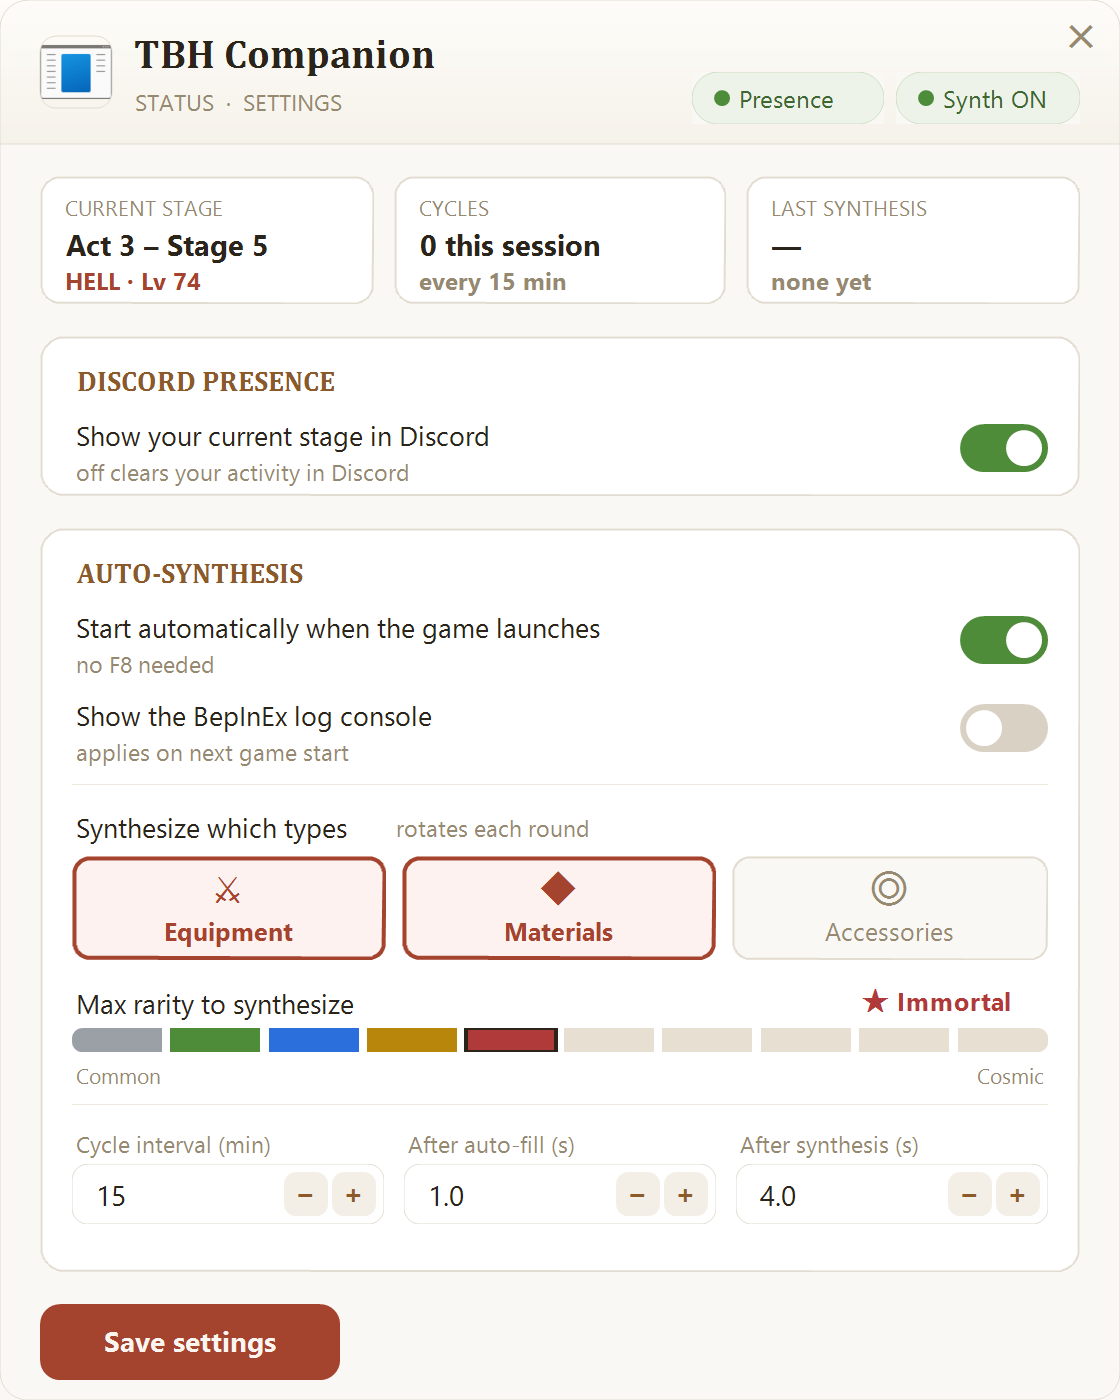
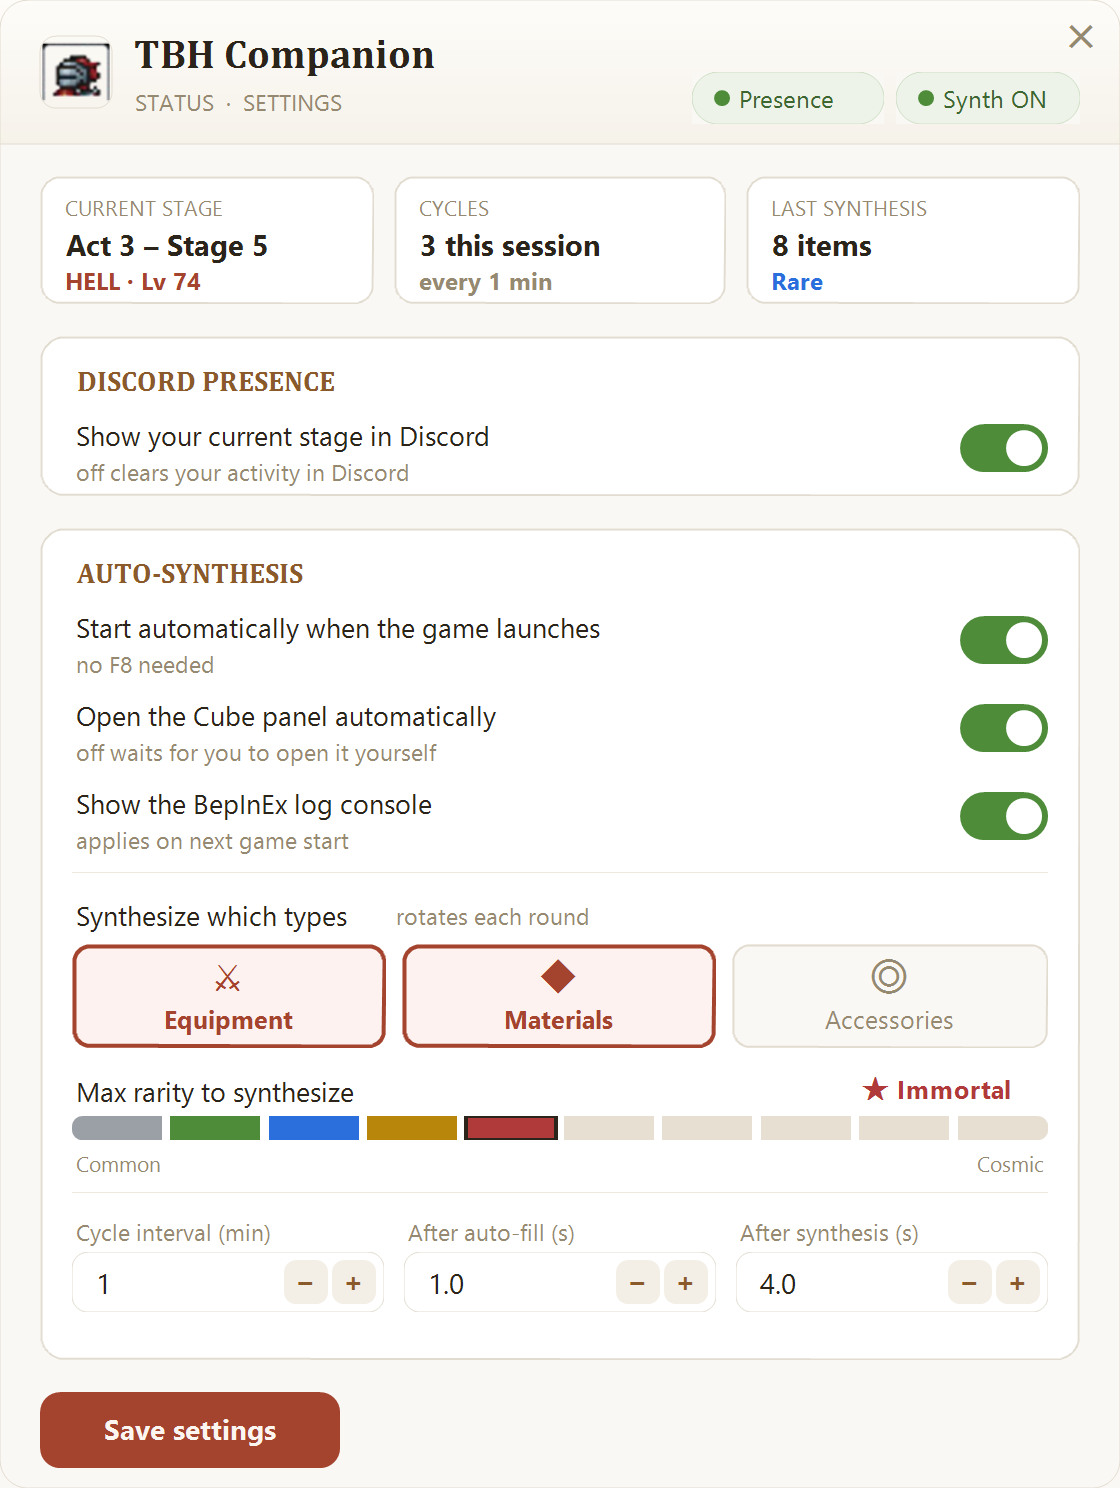
Open the Cube panel automatically when a synthesis cycle is due (#4)
The auto loop could only act while the Cube panel was open, so it sat idle
until the player opened it by hand. When a cycle is due and the panel is
closed, the plugin now clicks the Cube menu button in the main window's
content row (UI_Main.button_Cube.toggleButton) and continues on the next
tick.

The open attempt is gated by the same tick as the rest of the loop, so it
only fires when there is work to do: between cycles the loop sleeps and the
menu is left alone. Retries are throttled to once every 10s so a player
using another panel does not have the tab taken back every tick, and the
"button not available" warning waits for three consecutive misses - the main
window takes a few seconds to build after launch, and the first attempts
legitimately miss.

New AutoOpenCube config key (default true) with a toggle in the settings
window; off keeps the old behaviour of waiting for the player to open the
panel.

Claude-Session: https://claude.ai/code/session_018ARGGB4G6xciLzXs7UTuCK

diff --git a/autosynth/Plugin.cs b/autosynth/Plugin.cs
@@ -17,19 +17,20 @@ namespace TbhAutoSynth;
 [BepInPlugin("com.pres.tbh.autosynth", "TBH Auto Synthesis", AutoSynthPlugin.Version)]
 public class AutoSynthPlugin : BasePlugin
 {
-    internal const string Version = "0.22.0";
+    internal const string Version = "0.23.0";
 
     internal static ManualLogSource Logger;
     private static ConfigFile _conf;
     private static ConfigEntry<float> _afterFillE, _afterSynthE, _cycleE;
     private static ConfigEntry<int> _maxGradeE;
-    private static ConfigEntry<bool> _autoStartE;
+    private static ConfigEntry<bool> _autoStartE, _autoOpenE;
 
     internal static float AfterFillDelay => _afterFillE != null ? _afterFillE.Value : 1.0f;
     internal static float AfterSynthDelay => _afterSynthE != null ? _afterSynthE.Value : 4.0f;
     internal static float AfterClearDelay => _cycleE != null ? _cycleE.Value : 300.0f;
     internal static int MaxGrade => _maxGradeE != null ? _maxGradeE.Value : 2;
     internal static bool AutoStart => _autoStartE == null || _autoStartE.Value;
+    internal static bool AutoOpenCube => _autoOpenE == null || _autoOpenE.Value;
 
     private static ConfigEntry<string> _typesE;
 
@@ -62,10 +63,11 @@ public class AutoSynthPlugin : BasePlugin
         if (_conf == null) return;
         try
         {
-            int mg = MaxGrade; float ci = AfterClearDelay; bool auto = AutoStart;
+            int mg = MaxGrade; float ci = AfterClearDelay; bool auto = AutoStart; bool open = AutoOpenCube;
             _conf.Reload();
-            if (mg != MaxGrade || ci != AfterClearDelay || auto != AutoStart)
-                Logger.LogInfo($"config reloaded: MaxGrade={MaxGrade}, CycleIntervalSeconds={AfterClearDelay}, AutoStart={AutoStart}");
+            if (mg != MaxGrade || ci != AfterClearDelay || auto != AutoStart || open != AutoOpenCube)
+                Logger.LogInfo($"config reloaded: MaxGrade={MaxGrade}, CycleIntervalSeconds={AfterClearDelay}, " +
+                               $"AutoStart={AutoStart}, AutoOpenCube={AutoOpenCube}");
         }
         catch (Exception e) { Logger.LogWarning("config reload failed: " + e.Message); }
     }
@@ -81,8 +83,10 @@ public class AutoSynthPlugin : BasePlugin
         _cycleE = Config.Bind("Timing", "CycleIntervalSeconds", 300.0f,
             "Delay after emptying the cube before the next cycle starts (default: 5 minutes)");
         _autoStartE = Config.Bind("General", "AutoStart", true,
-            "Arm the auto loop as soon as the game starts (no F8 needed). " +
-            "It only acts while the Cube panel is open; F8 still toggles it.");
+            "Arm the auto loop as soon as the game starts (no F8 needed). F8 still toggles it.");
+        _autoOpenE = Config.Bind("General", "AutoOpenCube", true,
+            "While the loop is armed, click the Cube menu button to open the Cube panel when a " +
+            "cycle is due. Turn this off to only run while you have the Cube panel open yourself.");
         _typesE = Config.Bind("General", "SynthesisTypes", "Equipment,Materials,Accessories",
             "Which synthesis item types the loop rotates through, comma-separated: " +
             "Equipment, Materials, Accessories. e.g. 'Equipment,Materials' to skip accessories.");
@@ -112,7 +116,10 @@ public class AutoSynthBehaviour : MonoBehaviour
     private bool _typeSelected;
     private int _currentType;
     private float _nextTick;
+    private float _nextOpenAttempt;
+    private int _openFails;
     private UI_Cube _cube;
+    private UI_Main _main;
     private bool _legacyInputBroken;
     private bool _autoStartApplied;
     private float _nextConfigReload;
@@ -163,7 +170,11 @@ public class AutoSynthBehaviour : MonoBehaviour
             {
                 _auto = true;
                 AutoSynthPlugin.Logger.LogInfo(
-                    "Auto-synthesis armed on launch (AutoStart=true) - open the Cube panel to run it. F8 toggles.");
+                    "Auto-synthesis armed on launch (AutoStart=true). " +
+                    (AutoSynthPlugin.AutoOpenCube
+                        ? "The Cube panel is opened automatically when a cycle is due."
+                        : "AutoOpenCube=false - open the Cube panel yourself to run it.") +
+                    " F8 toggles.");
             }
         }
         if (KeyDown(KeyCode.F8))
@@ -175,6 +186,7 @@ public class AutoSynthBehaviour : MonoBehaviour
             _recipeAttempts = 0;
             _typeSelected = false;
             _nextTick = 0f;
+            _nextOpenAttempt = 0f;
             _nextStatusWrite = 0f;
             AutoSynthPlugin.Logger.LogInfo($"Auto-synthesis: {(_auto ? "ON" : "OFF")}");
         }
@@ -196,7 +208,7 @@ public class AutoSynthBehaviour : MonoBehaviour
         try
         {
             var cube = FindCube();
-            if (!CubeOpen(cube)) return;
+            if (!CubeOpen(cube)) { TryOpenCube(); return; }
 
             var loud = _cycles < 2 || _cycles % 20 == 0;
             switch (_phase)
@@ -554,6 +566,41 @@ public class AutoSynthBehaviour : MonoBehaviour
     private static bool CubeOpen(UI_Cube cube)
         => cube != null && cube.gameObject.activeInHierarchy;
 
+    // The Cube menu button in the main window's content row (Stash/Stat/Cube/Rune/Portal).
+    private ToggleButton CubeMenuButton()
+    {
+        if (_main == null) _main = UnityEngine.Object.FindObjectOfType<UI_Main>(true);
+        var entry = _main != null ? _main.button_Cube : null;
+        return entry != null ? entry.toggleButton : null;
+    }
+
+    // The loop can only act with the Cube panel open, so open it ourselves when a cycle
+    // is due. Throttled: if the player is using another panel we take the tab back at
+    // most once every 10s instead of every tick, and the loop is idle between cycles
+    // anyway, so this only fires when there is actually work to do.
+    private void TryOpenCube()
+    {
+        if (!AutoSynthPlugin.AutoOpenCube) return;
+        if (Time.unscaledTime < _nextOpenAttempt) return;
+        _nextOpenAttempt = Time.unscaledTime + 10f;
+
+        var btn = CubeMenuButton();
+        if (btn == null || !btn.gameObject.activeInHierarchy)
+        {
+            // The main window is still being built for the first seconds after launch,
+            // so a few misses are normal; only speak up once it stays unavailable.
+            if (++_openFails == 3)
+                AutoSynthPlugin.Logger.LogWarning(
+                    "auto-open: Cube menu button not available " +
+                    $"(mainUi={(_main == null ? "null" : "found")}, button={(btn == null ? "null" : "inactive")}); " +
+                    "open the Cube panel yourself and the loop will run");
+            _main = null; // re-find next time; the main UI may not be built yet
+            return;
+        }
+        _openFails = 0;
+        Click(btn, "Cube menu button (auto-open)", true);
+    }
+
     private static void ClickTrash(CubeSlotResetButton trash, bool loud)
     {
         if (trash == null || !trash.gameObject.activeInHierarchy)
@@ -603,6 +650,7 @@ public class AutoSynthBehaviour : MonoBehaviour
             if (cube == null) { AutoSynthPlugin.Logger.LogInfo("dump: UI_Cube not found"); return; }
             AutoSynthPlugin.Logger.LogInfo(
                 $"dump: cubeOpen={cube.gameObject.activeInHierarchy} " +
+                $"cubeMenuBtn={Describe(CubeMenuButton())} " +
                 $"autoFillBtn={Describe(cube.m_synthesisAutoFillButton)} " +
                 $"autoFillToggle={Describe(cube.toggleButton_AutoFill)} " +
                 $"trigger={Describe(cube.toggleButton_Trigger)} " +

diff --git a/src/StatusForm.cs b/src/StatusForm.cs
@@ -45,7 +45,7 @@ namespace TbhCompanion
         StatusCard _cardStage, _cardCycles, _cardLast;
         Card _presenceCard;
         Toggle _presenceToggle;
-        Toggle _autoStart, _showConsole;
+        Toggle _autoStart, _autoOpenCube, _showConsole;
         TypeTile _tEquip, _tMaterials, _tAccessories;
         SegmentBar _seg;
         Label _rarityValue;
@@ -72,7 +72,7 @@ namespace TbhCompanion
             try { using (var g = Graphics.FromHwnd(IntPtr.Zero)) _s = g.DpiX / 96f; } catch { _s = 1f; }
             // presence card sits below the status strip in both editions; the full
             // edition stacks the auto-synthesis card + save row beneath it.
-            int height = Build.Synth ? 604 + PresH + 16 : (PresY + PresH + 20);
+            int height = Build.Synth ? 648 + PresH + 16 : (PresY + PresH + 20);
             ClientSize = new Size(Sc(W), Sc(height));
             DoubleBuffered = true;
             SetStyle(ControlStyles.OptimizedDoubleBuffer | ControlStyles.AllPaintingInWmPaint | ControlStyles.UserPaint, true);
@@ -181,7 +181,7 @@ namespace TbhCompanion
         {
             int cardY = PresY + PresH + 16; // below the presence card (logical)
             _settingsCard = new Card { Radius = 12 };
-            _settingsCard.SetBounds(Sc(20), Sc(cardY), Sc(520), Sc(372));
+            _settingsCard.SetBounds(Sc(20), Sc(cardY), Sc(520), Sc(416));
             Controls.Add(_settingsCard);
             var c = _settingsCard;
 
@@ -193,47 +193,52 @@ namespace TbhCompanion
             _autoStart = new Toggle(); _autoStart.SetBounds(Sc(504 - 44), Sc(44), Sc(44), Sc(24));
             c.Controls.Add(_autoStart);
 
-            AddLabel(c, "Show the BepInEx log console", 16, 84, Theme.TextDark, Theme.F(10f, FontStyle.Regular));
-            AddLabel(c, "applies on next game start", 16, 104, Theme.TextMuted, Theme.F(8.5f, FontStyle.Regular));
-            _showConsole = new Toggle(); _showConsole.SetBounds(Sc(504 - 44), Sc(88), Sc(44), Sc(24));
+            AddLabel(c, "Open the Cube panel automatically", 16, 84, Theme.TextDark, Theme.F(10f, FontStyle.Regular));
+            AddLabel(c, "off waits for you to open it yourself", 16, 104, Theme.TextMuted, Theme.F(8.5f, FontStyle.Regular));
+            _autoOpenCube = new Toggle(); _autoOpenCube.SetBounds(Sc(504 - 44), Sc(88), Sc(44), Sc(24));
+            c.Controls.Add(_autoOpenCube);
+
+            AddLabel(c, "Show the BepInEx log console", 16, 128, Theme.TextDark, Theme.F(10f, FontStyle.Regular));
+            AddLabel(c, "applies on next game start", 16, 148, Theme.TextMuted, Theme.F(8.5f, FontStyle.Regular));
+            _showConsole = new Toggle(); _showConsole.SetBounds(Sc(504 - 44), Sc(132), Sc(44), Sc(24));
             c.Controls.Add(_showConsole);
 
-            AddDivider(c, 128);
+            AddDivider(c, 172);
 
             // types
-            AddLabel(c, "Synthesize which types", 16, 140, Theme.TextDark, Theme.F(10f, FontStyle.Regular));
-            AddLabel(c, "rotates each round", 176, 142, Theme.TextMuted, Theme.F(8.5f, FontStyle.Regular));
+            AddLabel(c, "Synthesize which types", 16, 184, Theme.TextDark, Theme.F(10f, FontStyle.Regular));
+            AddLabel(c, "rotates each round", 176, 186, Theme.TextMuted, Theme.F(8.5f, FontStyle.Regular));
             _tEquip = new TypeTile { Icon = "⚔", Caption = "Equipment" };
             _tMaterials = new TypeTile { Icon = "◆", Caption = "Materials" };
             _tAccessories = new TypeTile { Icon = "◎", Caption = "Accessories" };
             var tiles = new[] { _tEquip, _tMaterials, _tAccessories };
             int[] tx = { 16, 181, 346 };
             int[] tw = { 157, 157, 158 };
-            for (int i = 0; i < 3; i++) { tiles[i].SetBounds(Sc(tx[i]), Sc(164), Sc(tw[i]), Sc(52)); c.Controls.Add(tiles[i]); }
+            for (int i = 0; i < 3; i++) { tiles[i].SetBounds(Sc(tx[i]), Sc(208), Sc(tw[i]), Sc(52)); c.Controls.Add(tiles[i]); }
 
             // rarity
-            AddLabel(c, "Max rarity to synthesize", 16, 228, Theme.TextDark, Theme.F(10f, FontStyle.Regular));
-            _rarityValue = AddLabelBox(c, "★ Legendary", 300, 227, 188, 20, Theme.Amber, Theme.F(9.5f, FontStyle.Bold), ContentAlignment.MiddleRight);
+            AddLabel(c, "Max rarity to synthesize", 16, 272, Theme.TextDark, Theme.F(10f, FontStyle.Regular));
+            _rarityValue = AddLabelBox(c, "★ Legendary", 300, 271, 188, 20, Theme.Amber, Theme.F(9.5f, FontStyle.Bold), ContentAlignment.MiddleRight);
             _seg = new SegmentBar { Value = 3 };
-            _seg.SetBounds(Sc(16), Sc(250), Sc(488), Sc(12));
+            _seg.SetBounds(Sc(16), Sc(294), Sc(488), Sc(12));
             _seg.ValueChanged += delegate { UpdateRarityLabel(); };
             c.Controls.Add(_seg);
-            AddLabel(c, "Common", 16, 266, Theme.TextMuted, Theme.F(8f, FontStyle.Regular));
-            AddLabelBox(c, "Cosmic", 404, 266, 100, 16, Theme.TextMuted, Theme.F(8f, FontStyle.Regular), ContentAlignment.MiddleRight);
+            AddLabel(c, "Common", 16, 310, Theme.TextMuted, Theme.F(8f, FontStyle.Regular));
+            AddLabelBox(c, "Cosmic", 404, 310, 100, 16, Theme.TextMuted, Theme.F(8f, FontStyle.Regular), ContentAlignment.MiddleRight);
 
-            AddDivider(c, 288);
+            AddDivider(c, 332);
 
             // timings
             int[] colx = { 16, 182, 348 };
             int[] colw = { 156, 156, 156 };
-            AddLabel(c, "Cycle interval (min)", colx[0], 300, Theme.TextMuted, Theme.F(8.5f, FontStyle.Regular));
-            AddLabel(c, "After auto-fill (s)", colx[1], 300, Theme.TextMuted, Theme.F(8.5f, FontStyle.Regular));
-            AddLabel(c, "After synthesis (s)", colx[2], 300, Theme.TextMuted, Theme.F(8.5f, FontStyle.Regular));
+            AddLabel(c, "Cycle interval (min)", colx[0], 344, Theme.TextMuted, Theme.F(8.5f, FontStyle.Regular));
+            AddLabel(c, "After auto-fill (s)", colx[1], 344, Theme.TextMuted, Theme.F(8.5f, FontStyle.Regular));
+            AddLabel(c, "After synthesis (s)", colx[2], 344, Theme.TextMuted, Theme.F(8.5f, FontStyle.Regular));
             _cycleMin = new Stepper { Min = 1, Max = 1440, Step = 1, Decimals = 0, Value = 5 };
             _fillSec = new Stepper { Min = 0.5m, Max = 60, Step = 0.5m, Decimals = 1, Value = 1 };
             _synthSec = new Stepper { Min = 0.5m, Max = 60, Step = 0.5m, Decimals = 1, Value = 4 };
             var steps = new[] { _cycleMin, _fillSec, _synthSec };
-            for (int i = 0; i < 3; i++) { steps[i].SetBounds(Sc(colx[i]), Sc(318), Sc(colw[i]), Sc(30)); c.Controls.Add(steps[i]); }
+            for (int i = 0; i < 3; i++) { steps[i].SetBounds(Sc(colx[i]), Sc(362), Sc(colw[i]), Sc(30)); c.Controls.Add(steps[i]); }
         }
 
         void BuildSaveRow()
@@ -520,7 +525,7 @@ namespace TbhCompanion
 
         void SetSettingsEnabled(bool on)
         {
-            _autoStart.Enabled = on; _seg.Enabled = on;
+            _autoStart.Enabled = on; _autoOpenCube.Enabled = on; _seg.Enabled = on;
             _tEquip.Enabled = on; _tMaterials.Enabled = on; _tAccessories.Enabled = on;
             _cycleMin.Enabled = on; _fillSec.Enabled = on; _synthSec.Enabled = on;
             _saveBtn.Enabled = on;
@@ -540,6 +545,7 @@ namespace TbhCompanion
             {
                 string text = File.ReadAllText(_cfgPath);
                 _autoStart.Checked = !string.Equals(GetVal(text, "AutoStart", "true"), "false", StringComparison.OrdinalIgnoreCase);
+                _autoOpenCube.Checked = !string.Equals(GetVal(text, "AutoOpenCube", "true"), "false", StringComparison.OrdinalIgnoreCase);
                 int mg;
                 if (!int.TryParse(GetVal(text, "MaxGrade", "2"), out mg) || mg < 0 || mg > 9) mg = 2;
                 _seg.Value = mg; UpdateRarityLabel();
@@ -579,6 +585,7 @@ namespace TbhCompanion
             {
                 string text = File.ReadAllText(_cfgPath);
                 text = SetVal(text, "AutoStart", _autoStart.Checked ? "true" : "false");
+                text = SetVal(text, "AutoOpenCube", _autoOpenCube.Checked ? "true" : "false");
                 text = SetVal(text, "MaxGrade", _seg.Value.ToString(CultureInfo.InvariantCulture));
                 text = SetVal(text, "CycleIntervalSeconds", (_cycleMin.Value * 60).ToString(CultureInfo.InvariantCulture));
                 text = SetVal(text, "AfterFillSeconds", _fillSec.Value.ToString(CultureInfo.InvariantCulture));

diff --git a/autosynth/README.md b/autosynth/README.md
@@ -18,18 +18,18 @@ updates this plugin automatically. (Building it from source is covered in
 
 ## Use
 
-Open the **Cube** panel, then:
-
-With `AutoStart` on (the default) the loop is already armed when the game
-starts — just open the Cube panel and it runs. Hotkeys:
+With `AutoStart` on (the default) the loop is already armed when the game starts,
+and with `AutoOpenCube` on it clicks the **Cube** menu button itself whenever a
+cycle is due — so nothing has to be open beforehand. Hotkeys:
 
 | Key | Action |
 |-----|--------|
-| **F8** | Toggle the auto loop: select highest unlocked recipe → auto-fill → grade check → synthesis → clear cube → wait → repeat |
+| **F8** | Toggle the auto loop: open Cube → select highest unlocked recipe → auto-fill → grade check → synthesis → clear cube → wait → repeat |
 | **F9** | Click the synthesis trigger once |
 | **F10** | Dump button states and cube-slot item grades to `BepInEx\LogOutput.log` |
 
-The Cube panel must stay open while the loop runs.
+The loop only acts while the Cube panel is open. With `AutoOpenCube` off it waits
+for you to open the panel yourself instead of opening it.
 
 ## Config
 
@@ -38,6 +38,7 @@ The Cube panel must stay open while the loop runs.
 | Key | Default | Meaning |
 |-----|---------|---------|
 | `AutoStart` | true | Arm the auto loop at game start, no F8 needed |
+| `AutoOpenCube` | true | Click the Cube menu button to open the Cube panel when a cycle is due (at most once every 10s, so it doesn't fight you for the tab) |
 | `SynthesisTypes` | Equipment,Materials,Accessories | Which item types to synthesize; the loop rotates through them each round. e.g. `Equipment,Materials` to skip accessories. |
 | `MaxGrade` | 3 | Highest rarity the loop may synthesize (0=Common, 1=Uncommon, 2=Rare, 3=Legendary, 4=Immortal, …). Cycles holding anything above this are skipped. |
 | `CycleIntervalSeconds` | 300 | Pause between cycles |